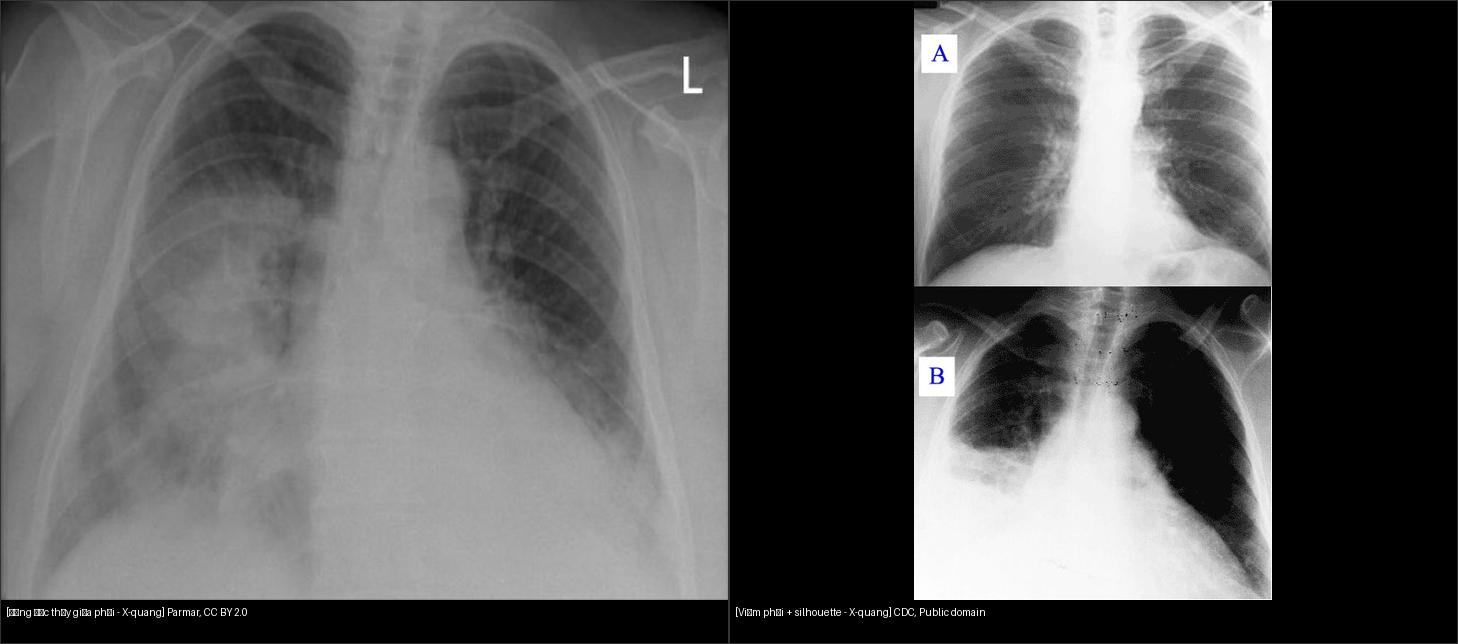
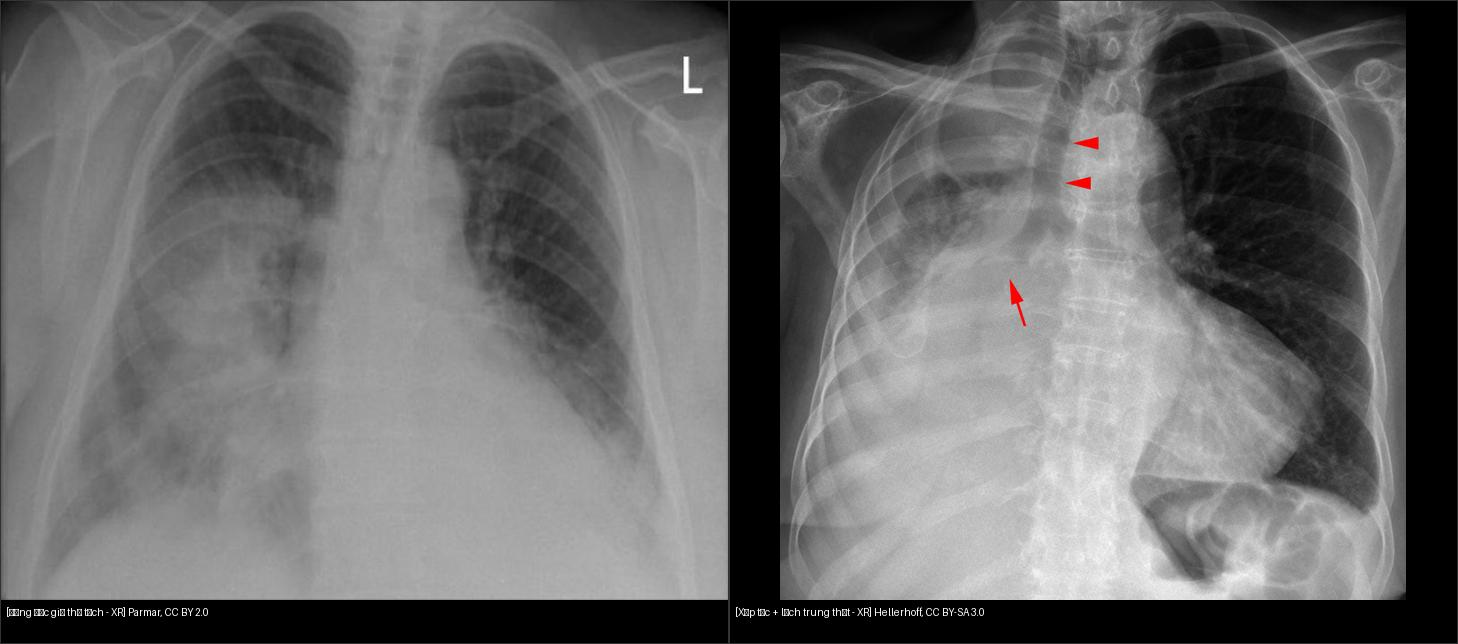
Chuan CĐHA dot 1: PROMPT_SYNTHESIZER + dinh luong 020/030/040 + sua air-bronchogram + Golden S + composite xep that + SCLC phan bien

diff --git a/030-dong-dac-xep-phoi/lesson.md b/030-dong-dac-xep-phoi/lesson.md
@@ -14,9 +14,10 @@ certainty: tong-hop-y-van
 
 ## 1. Tổng quan bệnh học – cơ chế hình ảnh
 
-- **Đông đặc (consolidation):** phế nang (alveoli) chứa đầy dịch/mủ/máu/tế bào thay vì khí. Tia X bị suy giảm → **mờ đều (opacity)**, nhưng **phế quản vẫn còn khí → hiện hình nhánh đen trong vùng trắng: phế quản hơi (air bronchogram)**. Đây là chốt phân biệt quan trọng nhất với xẹp phổi.
+- **Đông đặc (consolidation):** phế nang (alveoli) chứa đầy dịch/mủ/máu/tế bào thay vì khí. Tia X bị suy giảm → **mờ đều (opacity)**, nhưng **phế quản vẫn còn khí → hiện hình nhánh đen trong vùng trắng: phế quản hơi (air bronchogram)**. Thể tích giữ nguyên.
 - **Xẹp phổi (atelectasis):** phế nang **mất thể tích (volume loss)** — do tắc (obstruction, vd dị vật/u), chèn ép (compression, vd tràn dịch), co kéo (cicatricial) hoặc thiếu surfactant. Phim mất khí + **kéo lệch cấu trúc lân cận: rãnh liên thùy (fissure) di lệch, trung thất (mediastinum) kéo về bên xẹp, cơ hoành (diaphragm) nâng cao, khoảng liên sườn (intercostal spaces) hẹp lại**.
-- TẠI SAO cùng trắng mà khác nhau: đông đặc = **lấp đầy (filling) không mất thể tích**; xẹp = **mất thể tích (loss)** → mọi dấu hiệu "kéo lệch" đều thuộc về xẹp.
+- ⚠ CHỐT HỌC THUYẾT: **mất thể tích là tiêu chuẩn duy nhất** phân biệt xẹp vs đông đặc. **Phế quản hơi KHÔNG loại trừ xẹp nói chung** — xẹp thụ động (tràn dịch ép) và xẹp co kéo vẫn có phế quản hơi, thậm chí tụ lại (crowded); nó chỉ biến mất khi **tắc nghẽn trung tâm hoàn toàn** (khí không vào được).
+- **Golden S sign:** xẹp thùy trên (upper lobe) phải + u trung tâm: bờ dưới **lồi** (khối u) + bờ trên **lõm** (rãnh bé kéo lên) ghép thành chữ S — thấy S là nghĩ ngay u gây xẹp, chỉ định soi phế quản.
 
 ![Đông đặc thùy giữa phải và 2 đáy phổi](images/030_dongdac_XR_Wikimedia-Parmar-CCBY20.jpg)
 *X-quang ngực thẳng (PA): đông đặc thùy giữa (middle lobe) phải + đáy 2 bên. Nguồn: Parmar, CC BY 2.0 (xem `images/CREDITS.md`).*
@@ -32,13 +33,13 @@ certainty: tong-hop-y-van
 
 | Thực thể (entity) | Hình ảnh điển hình (X-quang/CT) | Chốt vào (rule-in) | Chốt loại (rule-out) | Gợi ý xác nhận |
 |---|---|---|---|---|
-| Đông đặc viêm phổi (pneumonia) | Mờ đều, giới hạn theo thùy/đoạn, **phế quản hơi (+)** | **Phế quản hơi hiện rõ trong vùng mờ, thể tích giữ nguyên** | Có kéo lệch rãnh liên thùy → nghĩ xẹp kèm theo, không phải đông đặc thuần | Lâm sàng sốt + CRP, CT cửa sổ phổi (lung window) |
-| Xẹp tắc (obstructive atelectasis) | Mờ đặc + **mất thể tích** | **Rãnh liên thùy di lệch về phía mờ, trung thất kéo sang** | Phế quản hơi lan tỏa trong vùng mờ → ủng hộ đông đặc hơn | CT tìm điểm tắc, soi phế quản (bronchoscopy) nếu nghi u |
+| Đông đặc viêm phổi (pneumonia) | Mờ đều, giới hạn theo thùy/đoạn, **phế quản hơi (+), thể tích giữ nguyên** | **Phế quản hơi + không mất thể tích** | Có kéo lệch rãnh liên thùy/trung thất → xẹp kèm, không phải đông đặc thuần | Lâm sàng sốt + CRP, CT cửa sổ phổi (lung window) |
+| Xẹp tắc (obstructive atelectasis) | Mờ đặc + **mất thể tích** (rãnh lệch, trung thất kéo sang) | **Mất thể tích + tắc trung tâm → mất phế quản hơi; Golden S nếu thùy trên + u** | Còn phế quản hơi lan tỏa mà không mất thể tích → đông đặc; xẹp thụ động vẫn có phế quản hơi | CT tìm điểm tắc, soi phế quản (bronchoscopy) nếu nghi u |
 | Phù phổi (edema) | Mờ lan tỏa 2 bên, đối xứng, cánh bướm (bat-wing) | **Phân bố trung tâm + đường Kerley B + tim to (cardiomegaly)** | Mờ khu trú 1 thùy + phế quản hơi → nghĩ viêm hơn | NT-proBNP, đáp ứng lợi tiểu (diuretics) |
 | Ung thư dạng đông đặc | Mờ dai dẳng không đáp ứng kháng sinh (non-resolving) | **Giãn phế quản trong tổn thương, hẹp dần (tapering), hạch (+)** | Tan hoàn toàn sau 6–8 tuần → lành tính | CT lại sau điều trị, sinh thiết (biopsy) nếu còn |
 
-![Đối chiếu đông đặc vs viêm phổi có silhouette](images/composite_dongdac-vs-xep.jpg)
-*Trái: đông đặc thùy giữa phải (Parmar, CC BY 2.0). Phải: viêm phổi Q fever kèm dấu silhouette (CDC, public domain). Ảnh ghép letterbox giữ tỷ lệ.*
+![Đông đặc giữ thể tích vs xẹp tắc mất thể tích](images/composite_dongdac-vs-xep.jpg)
+*Trái: đông đặc thùy giữa phải, đường giữa ngay ngắn (Parmar, CC BY 2.0). Phải: xẹp gần toàn bộ phổi phải do ung thư phế quản — khí quản/trung thất kéo lệch sang phải (mũi tên đỏ) (Hellerhoff, CC BY-SA 3.0). Cùng trắng, khác thể tích. Ảnh ghép letterbox giữ tỷ lệ.*
 
 ## 4. Protocol chụp + hệ phân độ/điểm chuẩn hóa
 
@@ -75,7 +76,23 @@ certainty: tong-hop-y-van
 - Nguồn ảnh: Mikael Häggström, CC0 (xem `images/CREDITS.md`).
 </details>
 
-**Ca 2 — Phân biệt nhanh:** mở ảnh ghép `composite_dongdac-vs-xep.jpg` ở mục 3, tự trả lời: bên nào có phế quản hơi? Bên nào mất thể tích? Rồi đối chiếu bảng mục 3.
+**Ca 2 — Phân biệt bằng thể tích:** mở ảnh ghép `composite_dongdac-vs-xep.jpg` ở mục 3, tự trả lời: bên nào đường giữa ngay ngắn (giữ thể tích)? Bên nào khí quản lệch (mất thể tích)? Rồi đối chiếu bảng mục 3.
+
+<details><summary><b>Bấm để hiện đáp án</b></summary>
+
+- Trái giữ thể tích → đông đặc. Phải khí quản/trung thất kéo sang phải → **xẹp tắc gần toàn bộ phổi phải do ung thư phế quản** (mũi tên đỏ chỉ khí quản lệch).
+- Nguồn: Hellerhoff, CC BY-SA 3.0 (xem `images/CREDITS.md`).
+</details>
+
+**Ca 3 — Nhìn phim dưới, tìm dấu thể tích trước:**
+
+![Ca 3 — xẹp phổi phải do u trung tâm](images/030_xep-tac_XR_Wikimedia-Hellerhoff-CCBYSA30.jpg)
+
+<details><summary><b>Bấm để hiện đáp án</b></summary>
+
+- Mờ gần toàn bộ phổi phải + **trung thất kéo sang phải** + không thấy phế quản hơi lan tỏa → **xẹp tắc do ung thư phế quản trung tâm** (cơ chế tắc nghẽn hoàn toàn). Bước tiếp: CT + soi phế quản tìm u.
+- Nguồn: Hellerhoff, CC BY-SA 3.0.
+</details>
 
 ## Bài liên quan chéo
 - [001 – Tổng quan hệ Ngực](../001-tong-quan-he-nguc/lesson.md)

diff --git a/020-not-phoi/lesson.md b/020-not-phoi/lesson.md
@@ -15,6 +15,8 @@ certainty: tong-hop-y-van
 ## 1. Tổng quan — nốt là gì, vì sao phải theo dõi
 
 - **Nốt phổi (pulmonary nodule):** tổn thương tròn/mờ ≤ **30 mm**; > 30 mm gọi là **khối (mass)**, nguy cơ ác cao hẳn. Phân 3 dạng: **đặc (solid)**, **bán đặc (part-solid)** (nhân đặc + quầng kính mờ (ground-glass)), **kính mờ thuần (pure ground-glass)**.
+- Ngưỡng định lượng nhớ nằm lòng: mỡ trong hamartoma **−40 đến −120 HU** (đo ở cửa sổ trung thất); nhân đặc trong nốt bán đặc **≥ 6 mm** là ngưỡng hành động (Lung-RADS 4A); thời gian nhân đôi thể tích (VDT) ác tính điển hình **20–400 ngày** (< 20 ngày nghĩ viêm; nốt bán đặc lepidic có thể chậm hơn nhiều; hạch trong phổi cũng có VDT trùng ác tính).
+- Số liệu hình thái (Snoeckx 2018): gai (spiculation) giá trị dự báo dương tới **90%**; nhưng **21–33%** nốt ác vẫn bờ nhẵn — bờ đều không loại trừ ung thư; vôi hóa trong SPN ác chỉ **~2%** (ung thư phổi nói chung tới 13%); PET-CT hạn chế khi nốt **< 8 mm**, adenocarcinoma lepidic, carcinoid (bắt thuốc thấp/âm tính giả).
 - TẠI SAO hình thái quyết định: gai (spiculation) = mô u xâm lấn mô kẽ (desmoplasia) kéo co; quầng kính mờ = lan theo vách phế nang (lepidic) của adenocarcinoma; vôi hóa (calcification) dạng bỏng ngô (popcorn) = hamartoma lành; mỡ (fat, HU âm) trong nốt = hamartoma.
 - 2 câu hỏi mọi nốt: **(1) đặc điểm ác tính? (2) bệnh nhân nguy cơ cao?** (hút thuốc (smoking), tuổi, tiền sử ung thư (cancer history), phơi nhiễm).
 
@@ -40,7 +42,7 @@ certainty: tong-hop-y-van
 ## 4. Protocol + Fleischner & Lung-RADS
 
 - **Phát hiện:** CT ngực liều thấp lát mỏng (≤ 1,5 mm), cửa sổ phổi; đo **đường kính trung bình** 2 chiều. So sánh **phim cũ** là bước giá trị nhất.
-- **Fleischner 2017** (nốt tình cờ, BN ≥ 35 tuổi, không ung thư/không suy giảm miễn dịch):
+- **Fleischner 2017** (nốt tình cờ, BN ≥ 35 tuổi, không ung thư/không suy giảm miễn dịch). Nốt đặc: < 6 mm nguy cơ thấp → không theo dõi thường quy; < 6 mm nguy cơ cao → CT 12 tháng (ổn định thì dừng); 6–8 mm → CT 6–12 tháng rồi 18–24 tháng; > 8 mm → CT 3 tháng + PET-CT/sinh thiết. Nốt bán đặc/kính mờ ≥ 6 mm: CT 3–6 tháng rồi hàng năm tới **5 năm** (tiến triển chậm, đánh giá nhân đặc chứ không chỉ kích thước):
 
 ```mermaid
 flowchart TD
@@ -72,7 +74,8 @@ flowchart TD
 <details><summary><b>Bấm để hiện đáp án</b></summary>
 
 - Dấu hiệu: nốt đặc 15mm, **bờ gai (spiculation) + notch rõ**, hạch cạnh khí quản (paratracheal) to.
-- Chẩn đoán: **nghi ác cao — ung thư phổi tế bào nhỏ** (mô bệnh xác nhận). Chốt vào = gai + notch + hạch vùng.
+- Chẩn đoán: **nghi ác cao — mô bệnh gốc: ung thư phổi tế bào nhỏ (SCLC)** (Fig. 10, Snoeckx 2018 — giữ nguyên chú thích gốc, đã đối chiếu PMC5825309).
+- ⚠ Phản biện: SCLC ngoại vi đơn độc 15 mm là **không điển hình** (SCLC ~90% trung tâm, khối lớn + hạch sớm). Gặp nốt gai ngoại vi, xác suất trước kiểm vẫn là NSCLC (adeno/SCC) — mô bệnh mới quyết định, không đoán mô bệnh từ hình thái.
 - Nguồn: Snoeckx et al., Insights into Imaging 2018, CC BY 4.0.
 </details>
 

diff --git a/PROMPT_SYNTHESIZER.md b/PROMPT_SYNTHESIZER.md
@@ -1,0 +1,29 @@
+# PROMPT_SYNTHESIZER.md — Chuẩn học thuật cho người/AI tổng hợp bài CĐHA
+
+> Mọi bài `lesson.md` phải qua 4 cửa này trước khi commit. Nhãn mức chắc chắn + Việt hóa 100% theo `AGENTS.md`.
+
+## 1. Ngưỡng định lượng bắt buộc (quantitative cut-offs)
+- Không viết chung chung ("HU âm", "tăng tỷ trọng", "nốt nhỏ"). Mọi nhận định phải kèm số: khoảng HU, mm, ngày, phiên bản guideline.
+- Ví dụ tối thiểu hệ Ngực: mỡ trong hamartoma **−40 đến −120 HU**; máu màng phổi **35–70 HU**; nhân đặc trong nốt bán đặc **≥ 6 mm** là ngưỡng hành động; thời gian nhân đôi thể tích (VDT) ác tính điển hình **20–400 ngày** (nốt bán đặc lepidic có thể chậm hơn nhiều).
+- Ghi rõ phiên bản (Fleischner 2017, Lung-RADS v2022...) + ngưỡng xử trí tương ứng. Số nào chưa kiểm chứng được thì ghi "chưa rõ — cần tra", không bịa.
+
+## 2. Học thuyết thể tích (volume-loss doctrine) — Đông đặc vs Xẹp
+- **Mất thể tích (volume loss) là CHỐT DUY NHẤT** phân biệt xẹp phổi với đông đặc, không phải phế quản hơi.
+- **Phế quản hơi (air bronchogram) KHÔNG loại trừ xẹp nói chung**: xẹp thụ động (tràn dịch ép) và xẹp co kéo vẫn có phế quản hơi, thậm chí tụ lại (crowded). Nó chỉ biến mất khi **tắc nghẽn trung tâm hoàn toàn** (khí không vào được).
+- Mọi bảng DDx đông đặc/xẹp phải có cột dấu thể tích (rãnh liên thùy, trung thất, cơ hoành, khoảng liên sườn).
+- Dấu kinh điển phải dạy kèm ảnh: **Golden S sign** — xẹp thùy trên phải + u trung tâm: bờ dưới lồi (u) + bờ trên lõm (rãnh bé kéo lên).
+
+## 3. Trung thành nguồn + phản biện (fidelity + critique)
+- Ca nguyên văn: giữ đúng mô bệnh/chú thích gốc (kể cả khi không điển hình), ghi rõ Fig/ID nguồn.
+- Nếu ca không điển hình (vd nốt gai ngoại vi 15 mm mà mô bệnh là SCLC — trong khi SCLC ~90% trung tâm), **thêm chú thích phản biện** ngay dưới đáp án, không sửa nguồn.
+- Kiểm chứng lại mọi ca trước khi đưa vào quiz: đối chiếu bài gốc (vd PMC/DOI), không tin mù chú thích trung gian.
+
+## 4. Cạm bẫy mặt cắt (cross-sectional pitfalls)
+- Mọi bài màng phổi/bụng phải có mục phân biệt trên CT ngang: **dịch màng phổi vs cổ trướng (ascites)** — dấu crus lệch (displaced crus sign), dấu bare area (bare area sign), meniscus vs ôm gan/lách.
+- Nguyên tắc chung: cùng một đậm độ dịch, vị trí tương đối với cơ hoành/crus mới quyết định tên gọi.
+
+## Quy trình áp cho từng bài
+1. Gom nguồn vào `sources.md` → kiểm phép từng ảnh → tải về đặt tên `NNN_slug_Modality_SourceID`.
+2. Viết `lesson.md` đúng khung 6 mục + frontmatter, số liệu định lượng ở mục (1)/(4), ma trận đối chiếu có 2 cột Chốt vào/Chốt loại.
+3. Quiz `<details>`: ảnh trơn ngoài, findings + chẩn đoán + nguồn trong; ca không điển hình thêm dòng phản biện.
+4. Tự kiểm: bảng cân cột, ảnh tồn tại, link chéo đúng ID 3 số → commit + push (không force-push).

diff --git a/040-tran-dich-mang-phoi/lesson.md b/040-tran-dich-mang-phoi/lesson.md
@@ -43,12 +43,19 @@ certainty: tong-hop-y-van
 - **Siêu âm màng phổi (POCUS):** phân biệt dịch tự do/vách hóa, hướng dẫn chọc — làm tại giường.
 - **CT có cản quang:** nghi empyema (split pleura), u màng phổi, dịch khu trú khó chọc.
 
-## 5. Biến thể bình thường và cạm bẫy
+## 5. Biến thể bình thường và cạm bẫy + Dịch màng phổi vs cổ trướng trên CT ngang
 
 - **Mỡ ngoài màng phổi (extrapleural fat):** vệt mờ đối xứng người béo — đừng đọc dịch 2 bên.
 - **Phim AP nằm:** một bên trắng đều do dịch lớp sau — so sánh 2 bên + chụp decubitus xác nhận.
 - **Giả u trong rãnh (pseudotumor):** khối thấu kính trong rãnh liên thùy ở BN suy tim — tan sau lợi tiểu, đừng sinh thiết vội.
 - **Nếp da/tóc dài:** đường thẳng ra ngoài thành ngực — đừng đọc tràn khí kèm.
+- **Định lượng HU dịch:** dịch thấm ~0–15 HU; dịch tiết cao hơn; **máu màng phổi (hemothorax) 35–70 HU** — đo HU trước khi gọi tên dịch.
+
+### Phân biệt dịch màng phổi vs cổ trướng (ascites) trên CT cắt ngang
+Cùng là dịch, vị trí tương đối với cơ hoành mới quyết định tên:
+- **Dấu crus lệch (displaced crus sign):** dịch màng phổi nằm sau-trong, **đẩy trụ cơ hoành (crus) ra trước**, tách khỏi cột sống; cổ trướng ôm gan/lách, crus vẫn áp cột sống.
+- **Dấu bare area:** dịch ở vùng trần của gan phải (bare area — ngoài phúc mạc, cổ trướng không vào được) = **tràn dịch màng phổi**.
+- **Meniscus vs ôm tạng:** dịch màng phổi tạo mặt khum + khu trú trên vòm hoành; cổ trướng lan quanh gan/lách, vào rãnh Morrison, dưới vòm hoành.
 
 ## 6. Tự lượng giá — Blind Quiz
 

diff --git a/030-dong-dac-xep-phoi/images/CREDITS.md b/030-dong-dac-xep-phoi/images/CREDITS.md
@@ -6,6 +6,7 @@
 | `030_dongdac-annot_XR_Wikimedia-Haggstrom-CC0.jpg` | Mikael Häggström, Wikimedia Commons (bản annotated, có mũi tên vùng đông đặc) | CC0 | https://commons.wikimedia.org/wiki/File:Chest_radiograph_in_influensa_and_H_influenzae,_posteroanterior,_annotated.jpg |
 | `030_viemphoi_XR_Wikimedia-CDC-PD.jpg` | CDC/FDA qua Wikimedia Commons (kết hợp X-quang ngực bình thường + viêm phổi Q fever, có dấu silhouette) | Public domain (PD US HHS CDC) | https://commons.wikimedia.org/wiki/File:Pneumonia_x-ray.jpg |
 | `030_dongdac_XR_Wikimedia-Parmar-CCBY20.jpg` | Malvinder S. Parmar, BMC Infectious Diseases 2005, qua Wikimedia Commons (X-quang PA: đông đặc thùy giữa phải + 2 đáy) | CC BY 2.0 (bắt buộc ghi nguồn) | https://commons.wikimedia.org/wiki/File:X-ray_lung_consolidation.jpg |
-| `composite_dongdac-vs-xep.jpg` | Ảnh ghép local từ 2 ảnh trên (letterbox giữ aspect) | Kế thừa giấy phép từng ảnh thành phần | Tạo bởi `tools/make_composite.py` |
+| `030_xep-tac_XR_Wikimedia-Hellerhoff-CCBYSA30.jpg` | Hellerhoff, Wikimedia Commons (xẹp gần toàn bộ phổi phải do ung thư phế quản, trung thất kéo sang phải) | CC BY-SA 3.0 | https://commons.wikimedia.org/wiki/File:Mediastinalshift_bei_BC.jpg |
+| `composite_dongdac-vs-xep.jpg` | Ảnh ghép local: đông đặc (Parmar) + xẹp tắc (Hellerhoff), letterbox giữ aspect | Kế thừa CC BY 2.0 / CC BY-SA 3.0 | Tạo bởi `tools/make_composite.py` |
 
 Quy tắc: chỉ tải khi giấy phép cho phép. AuntMinnie chỉ dẫn link.

diff --git a/AGENTS.md b/AGENTS.md
@@ -60,6 +60,7 @@
 - ID quá 1000: không vướng (parse số bằng int, tham chiếu bằng tên chính xác).
 - Dải ID hiện tại (3 chữ số, chừa khe chèn): `001` = tổng quan hệ Ngực; `010/020/030/040` = hệ Ngực đợt 1 (khe `011–019` chèn sau). Hệ tiếp theo: `100–199` Bụng, `200–299` Thần kinh, `300–399` Cơ xương...
 - Mục (1) bắt buộc giải thích TẠI SAO (vật lý T1/T2/DWI/HU + mô bệnh), không chỉ liệt kê tín hiệu — theo PROMPT_SYNTHESIZER của Argon + nhãn certainty của ta.
+- Mọi bài qua 4 cửa trong `PROMPT_SYNTHESIZER.md` (ngưỡng định lượng, học thuyết thể tích, trung thành nguồn + phản biện, cạm bẫy mặt cắt) trước khi commit.
 
 ## Phân công (ta vs Argon — ai giỏi việc gì làm việc đó)
 - Ta (OpenChamber/Build): khung repo, ID, hub Pages, script composite, Mermaid, kiểm phép ảnh, commit/push.

diff --git a/templates/lesson-template.md b/templates/lesson-template.md
@@ -20,6 +20,7 @@ sources: [Radiopaedia, RadiologyAssistant, Eurorad]
 ## 1. Tổng quan bệnh học – cơ chế hình ảnh
 - Bệnh học (pathology) + sinh lý bệnh (pathophysiology) ngắn gọn.
 - BẮT BUỘC giải thích TẠI SAO (theo Argon): thời gian T1/T2, khuếch tán (diffusion) trên DWI/ADC, Hounsfield trên CT, bản chất mô (mỡ (fat), máu bán cấp (subacute blood)/methemoglobin, mucin, xơ (fibrosis)/collagen, hoại tử (necrosis)) — không chỉ liệt kê tăng/giảm tín hiệu.
+- BẮT BUỘC ngưỡng định lượng (theo `PROMPT_SYNTHESIZER.md`): mọi nhận định kèm số (HU, mm, ngày, phiên bản guideline). Số chưa kiểm chứng ghi "chưa rõ", không bịa.
 
 ## 2. Mẫu hình + chẩn đoán phân biệt theo vị trí (gamut)
 - Liệt kê mẫu hình (pattern) → gamut theo vị trí (location).
